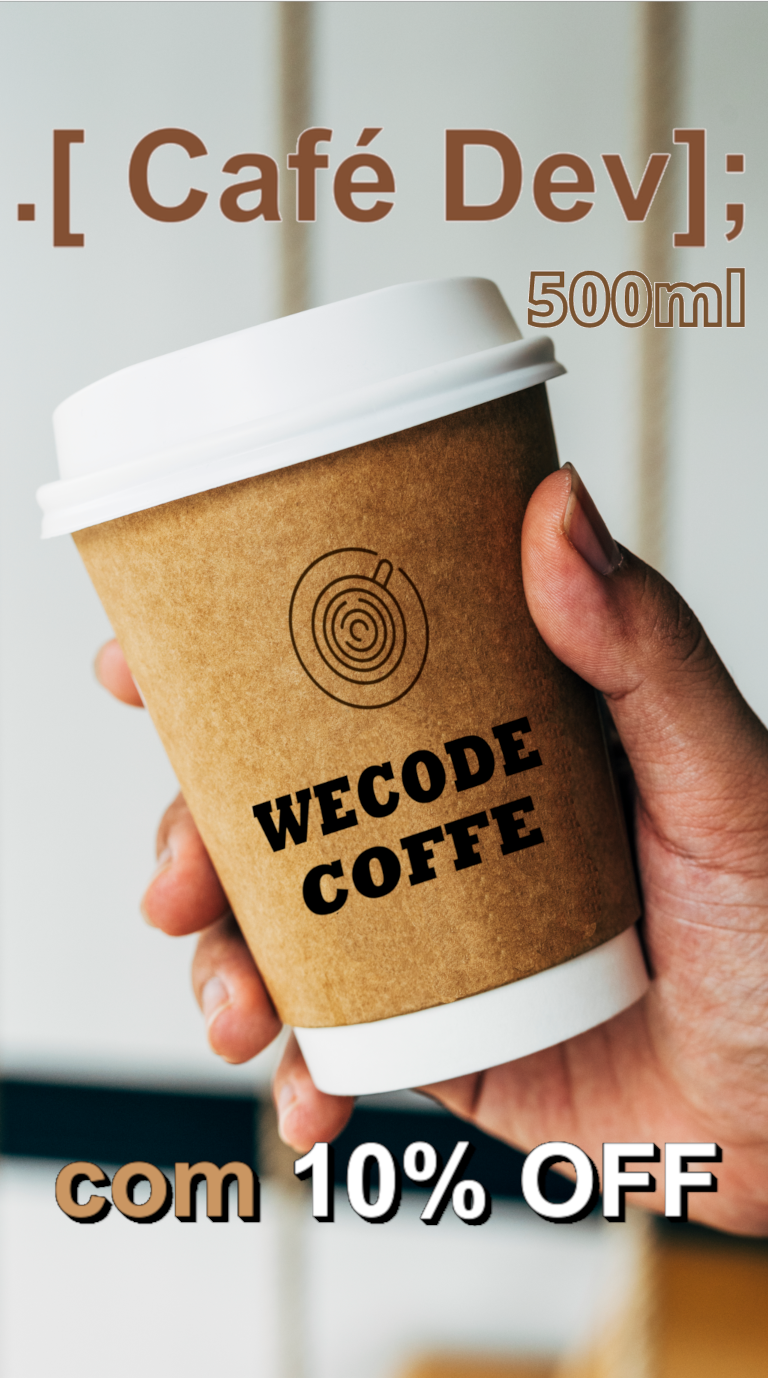
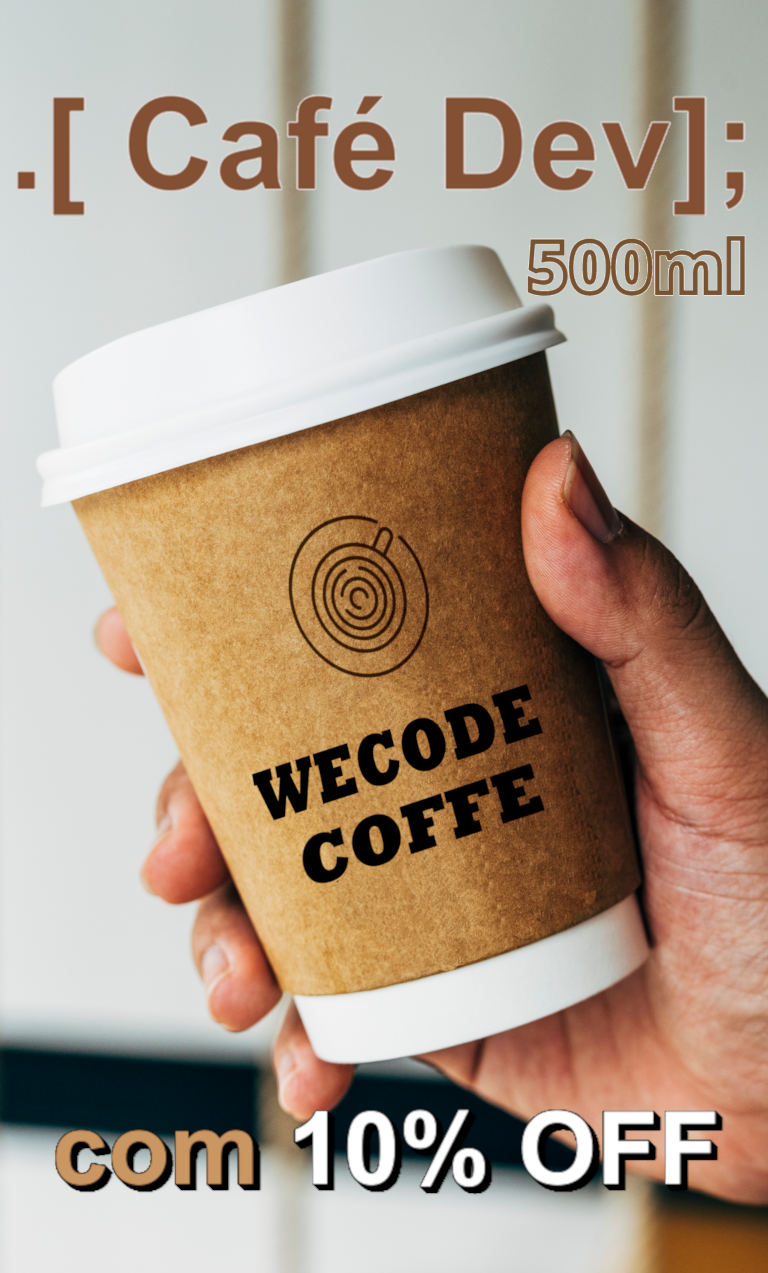
commit

diff --git a/index.html b/index.html
@@ -44,7 +44,7 @@
                                 <img src="wecodeMainCoffe25.png" class="main-coffe-coffe-image">
                             </picture>
                             <picture>
-                                <source media="(max-width: 500px)" srcset="WECODEphone2.png">
+                                <source media="(max-width: 500px)" srcset="WECODEphone3.png">
                                 <img src="zWECODE3.png" class="main-coffe-coffe-image">
                             </picture>
                             

diff --git a/style.css b/style.css
@@ -35,6 +35,7 @@ body {
     align-items: center;
     justify-content: center;
     margin: 0;
+    
 
 }
 /*main-coffe-carossel*/
